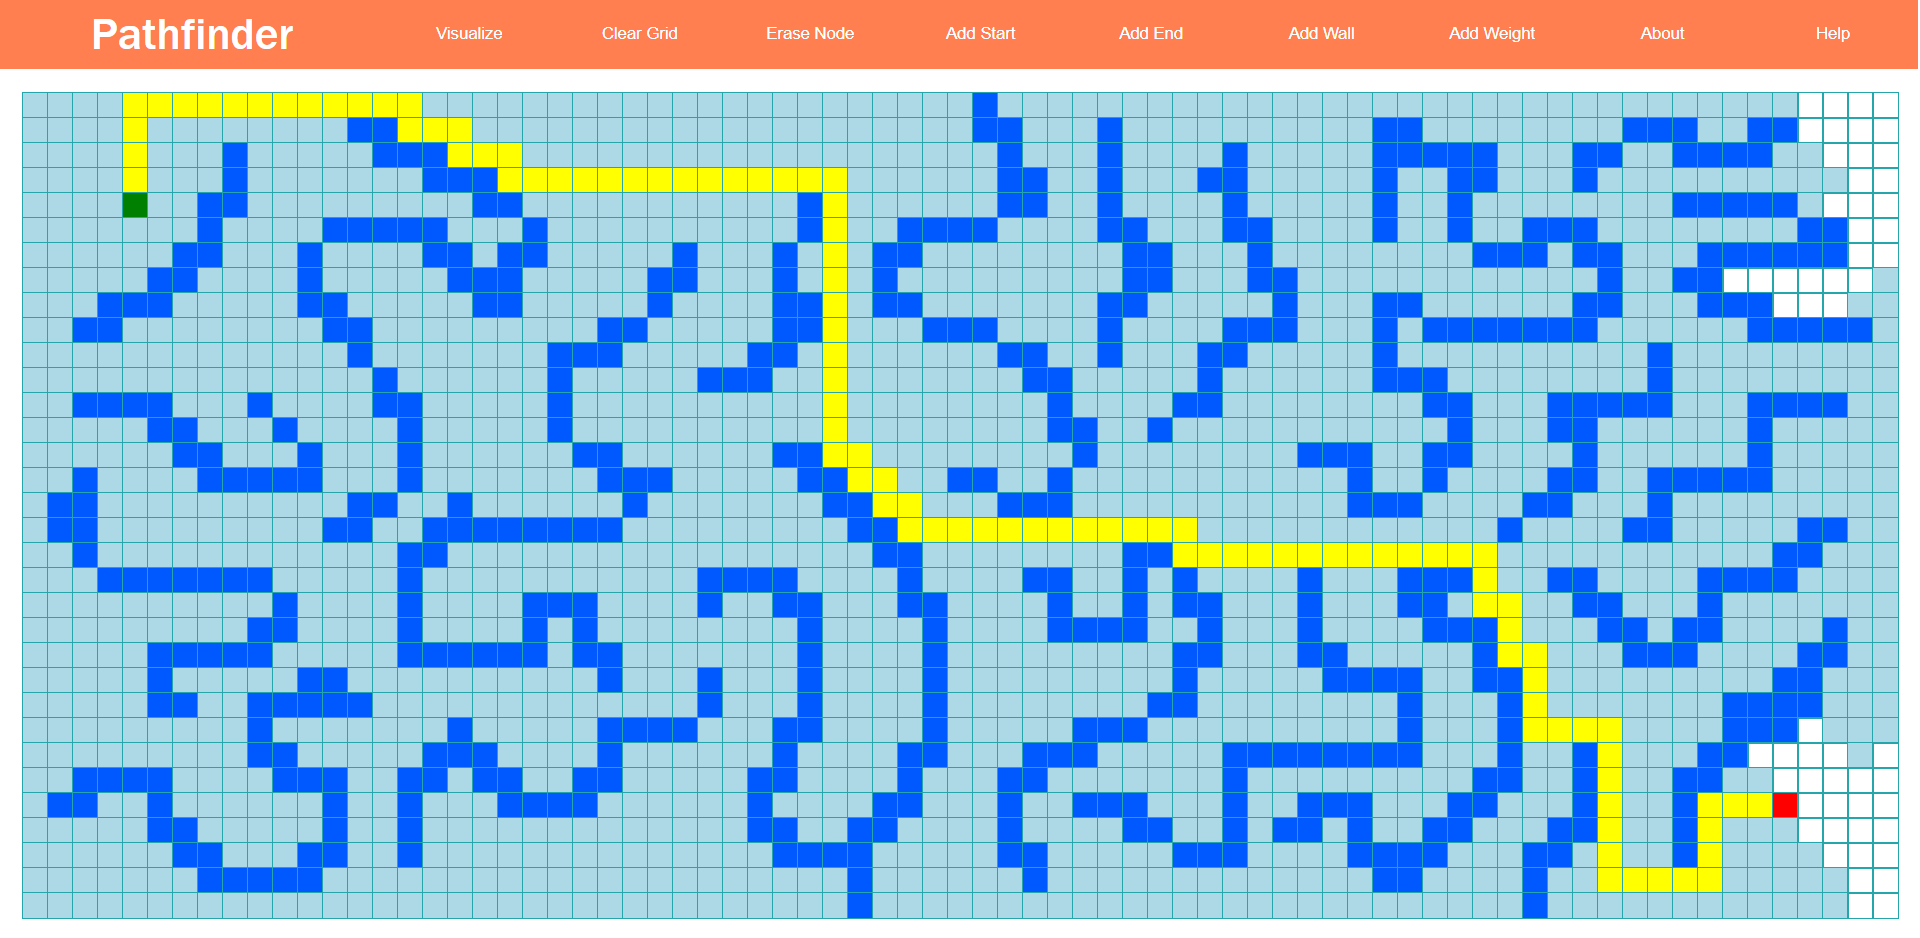
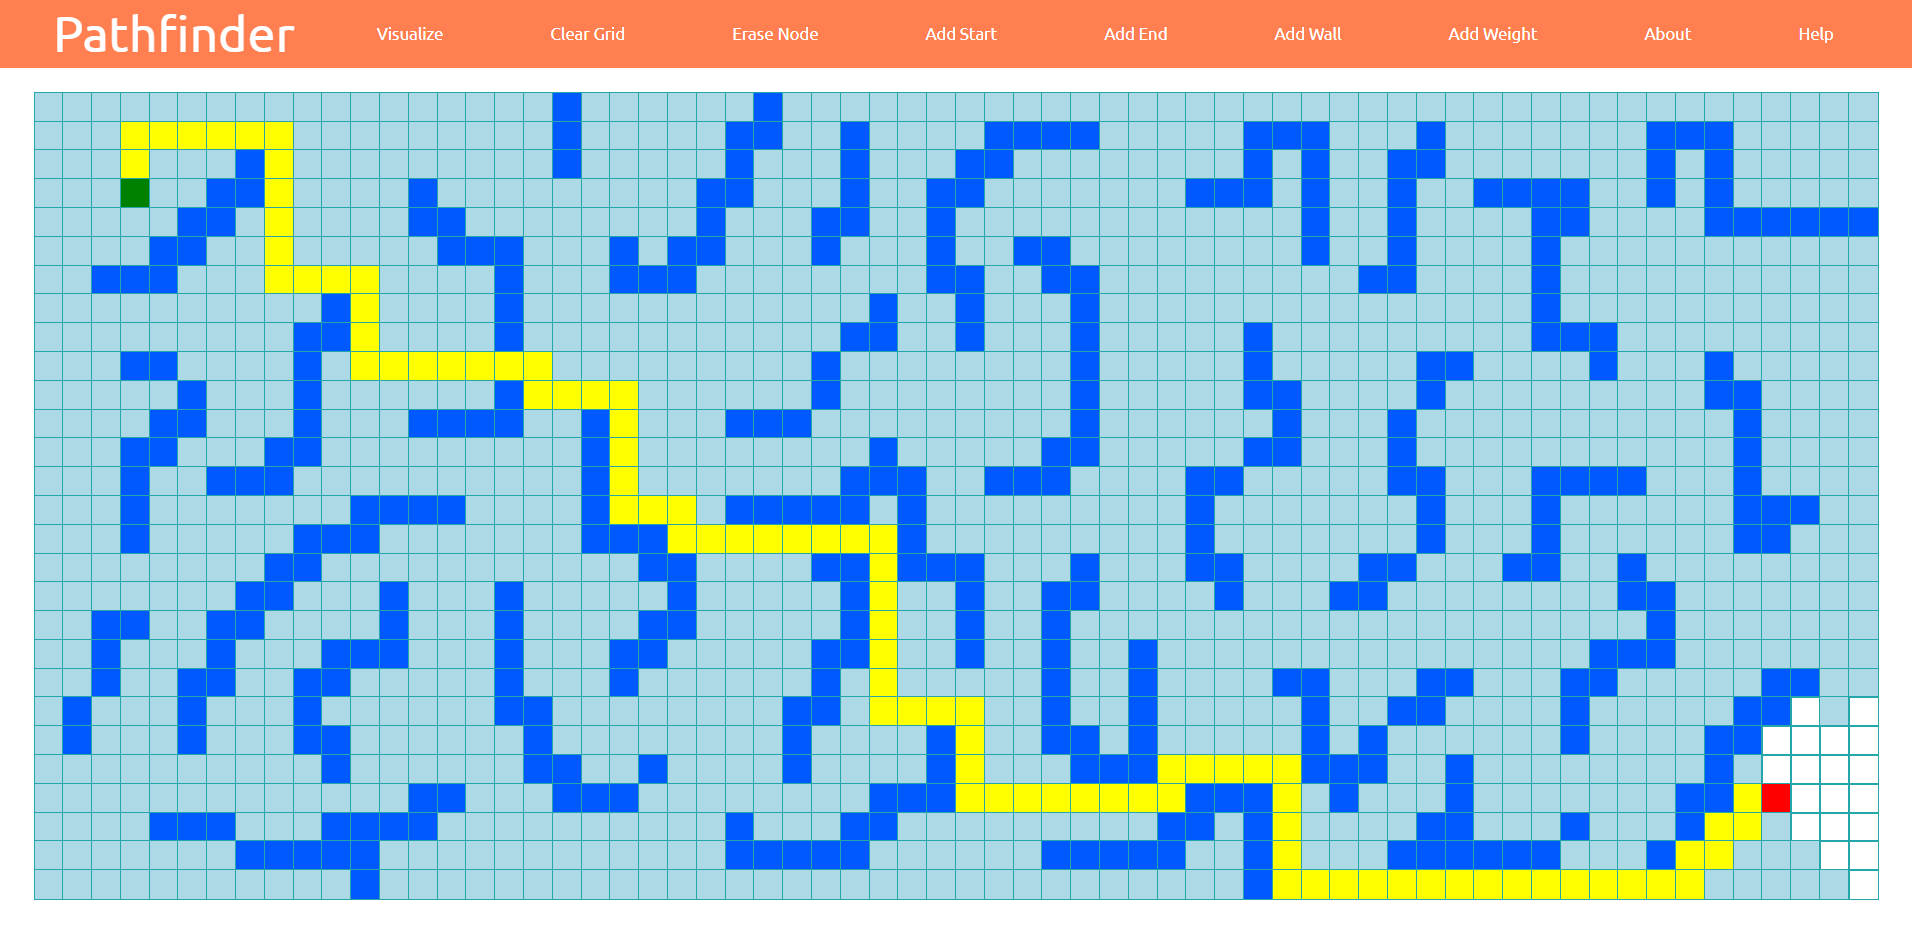
Changed pathfinder

diff --git a/Pathfinder/Pathfinder.css b/Pathfinder/Pathfinder.css
@@ -1,5 +1,10 @@
+* {
+    margin: 0;
+    padding: 0;
+}
+
 .page {
-    white-space: nowrap;
+    /* white-space: nowrap; */
     overflow-x: auto;
     overflow-y: auto;
     color: rgb(0, 0, 0);
@@ -14,47 +19,47 @@
 
 .node {
     outline: 1px solid rgb(37, 166, 170);
-    width: 20px;
-    height: 20px;
+    width: 1.5vw;
+    height: 1.5vw;
     display: inline-block;
 }
 
 .startnode {
     outline: 1px solid rgb(37, 166, 170);
-    width: 20px;
-    height: 20px;
+    width: 1.5vw;
+    height: 1.5vw;
     display: inline-block;
     background-color: green;
 }
 
 .endnode {
     outline: 1px solid rgb(37, 166, 170);
-    width: 20px;
-    height: 20px;
+    width: 1.5vw;
+    height: 1.5vw;
     display: inline-block;
     background-color: red;
 }
 
 .visitednode {
     outline: 1px solid rgb(37, 166, 170);
-    width: 20px;
-    height: 20px;
+    width: 1.5vw;
+    height: 1.5vw;
     display: inline-block;
     background-color: lightblue;
 }
 
 .pathnode {
     outline: 1px solid rgb(37, 166, 170);
-    width: 20px;
-    height: 20px;
+    width: 1.5vw;
+    height: 1.5vw;
     display: inline-block;
     background-color: yellow;
 }
 
 .wallnode {
     outline: 1px solid rgb(37, 166, 170);
-    width: 20px;
-    height: 20px;
+    width: 1.5vw;
+    height: 1.5vw;
     display: inline-block;
     background-color: rgb(0, 89, 255);
 }
@@ -62,74 +67,81 @@
 
 .weighttwonode {
     outline: 1px solid rgb(37, 166, 170);
-    width: 20px;
-    height: 20px;
+    width: 1.5vw;
+    height: 1.5vw;
     display: inline-block;
     background-color: rgb(215, 215, 215);
 }
 .weightthreenode {
     outline: 1px solid rgb(37, 166, 170);
-    width: 20px;
-    height: 20px;
+    width: 1.5vw;
+    height: 1.5vw;
     display: inline-block;
     background-color: rgb(200, 200, 200);
 }
 .weightfournode {
     outline: 1px solid rgb(37, 166, 170);
-    width: 20px;
-    height: 20px;
+    width: 1.5vw;
+    height: 1.5vw;
     display: inline-block;
     background-color: rgb(187, 187, 187);
 }
 .weightfivenode {
     outline: 1px solid rgb(37, 166, 170);
-    width: 20px;
-    height: 20px;
+    width: 1.5vw;
+    height: 1.5vw;
     display: inline-block;
     background-color: rgb(170, 170, 170);
 }
 .weightsixnode {
     outline: 1px solid rgb(37, 166, 170);
-    width: 20px;
-    height: 20px;
+    width: 1.5vw;
+    height: 1.5vw;
     display: inline-block;
     background-color: rgb(150, 150, 150);
 }
 .weightsevennode {
     outline: 1px solid rgb(37, 166, 170);
-    width: 20px;
-    height: 20px;
+    width: 1.5vw;
+    height: 1.5vw;
     display: inline-block;
     background-color: rgb(120, 120, 120);
 }
 .weighteightnode {
     outline: 1px solid rgb(37, 166, 170);
-    width: 20px;
-    height: 20px;
+    width: 1.5vw;
+    height: 1.5vw;
     display: inline-block;
     background-color: rgb(90, 90, 90);
 }
 .weightninenode {
     outline: 1px solid rgb(37, 166, 170);
-    width: 20px;
-    height: 20px;
+    width: 1.5vw;
+    height: 1.5vw;
     display: inline-block;
     background-color: rgb(50, 50, 50);
 }
 .weighttennode {
     outline: 1px solid rgb(37, 166, 170);
-    width: 20px;
-    height: 20px;
+    width: 1.5vw;
+    height: 1.5vw;
     display: inline-block;
     background-color: rgb(0, 0, 0);
 }
 
-.navbar {
+.navbar ul {
     position: fixed;
     top: 0;
     left: 0;
     width: 100%;
+    list-style: none;
+    display: flex;
+    background-color: coral;
+    align-items: center;
+    justify-content: space-evenly;
+    text-align: center;
 }
+
 
 .title {
     -webkit-text-size-adjust:none;
@@ -142,7 +154,7 @@
     color: white;
     padding: 7.5px;
     margin: 0;
-    float: left;
+    /* float: left; */
     font-size: 36px;
     font-style: bold;
     font-family: 'Franklin Gothic Medium', 'Arial Narrow', Arial, sans-serif;
@@ -150,12 +162,12 @@
 
 .button {
     background-color: coral;
-    /* border: 1px solid green; */
+    font-family: 'Ubuntu', sans-serif;
     border: none;
     color: white;
     padding: 20px;
     margin: 0;
-    float: left;
+    /* float: left; */
     cursor: pointer;
 }
 
@@ -167,11 +179,11 @@
     background-color: rgb(251, 94, 36);
 }
 
-.navbar:after {
-    content: "";
-    clear: both;
-    display: table;
+#pathfinder {
+    font-size: 40px;
+    padding: 0;
 }
+
 
 .weightdropdown {
     display: none;
@@ -180,7 +192,7 @@
     /* padding: 20px; */
     z-index: 1;
     position: fixed;
-    left: 70%;
+    left: 73.5%;
     top: 7%;
 }
 
@@ -285,6 +297,10 @@
     padding: 20px;
     width: 70%;
     border-radius: 10px;
+}
+
+.modal p {
+    width: 70vw;
 }
 
 #about-close {

diff --git a/Pathfinder/Pathfinder.html b/Pathfinder/Pathfinder.html
@@ -5,11 +5,24 @@
             Pathfinder
         </title>
         <link rel="stylesheet" href="Pathfinder.css">
-        
+        <link href="https://fonts.googleapis.com/css2?family=Ubuntu&display=swap" rel="stylesheet">
     </head>
     <body class = "page">
         <div class = "navbar">
-            <button class = "title" style = "width:20%">
+            <ul>
+                <li><button class = "button" id = "pathfinder">Pathfinder</button></li>
+                <li><button class = "button" id = "visualize">Visualize</button></li>
+                <li><button class = "button" id = "clear">Clear Grid</button></li>
+                <li><button class = "button" id = "erase">Erase Node</button></li>
+                <li><button class = "button" id = "select start node">Add Start</button></li>
+                <li><button class = "button" id = "select end node">Add End</button></li>
+                <li><button class = "button" id = "add wall node">Add Wall</button></li>
+                <li><button class = "button" id = "add weight node">Add Weight</button></li>
+                <li><button class = "button" id = "about">About</button></li>
+                <li><button class = "button" id = "help">Help</button></li>
+
+            </ul>
+            <!-- <button class = "title" style = "width:20%">
                 Pathfinder
             </button>
             <button class = "button" id = "visualize" style = "width:8.88%">
@@ -38,7 +51,7 @@
             </button>
             <button class = "button" id = "help" style = "width:8.88%">
                 Help
-            </button>
+            </button> -->
         </div>
         <div class = "weightdropdown" id = "weight dropdown">
             <button class = "weightDropButtonTwo" id = "weighttwo" style = "width:8.88%">
@@ -79,12 +92,11 @@
                     About
                 </h1>
                 <p>
-                    This is a project developed by Samuel Ko as a learning project for basic JavaScript, HTML, and CSS. The project is designed to highlight basic webpage design concepts, </br>
-                    simple animation, user interaction, and an understanding of pathfinding algorithms both algorithmically and visually. The project's major components were </br>
-                    developed over the course of a week in which the challenge was to add as much functionality as possible. The goal was to make a visualizer that could be a </br>
+                    This is a project developed by Samuel Ko as a learning project for basic JavaScript, HTML, and CSS. The project is designed to highlight basic webpage design concepts, 
+                    simple animation, user interaction, and an understanding of pathfinding algorithms both algorithmically and visually. The project's major components were 
+                    developed over the course of a week in which the challenge was to add as much functionality as possible. The goal was to make a visualizer that could be a 
                     potentially useful learning tool or something fun to play around with. 
                 </p>
-                
             </div>
         </div>
         <div class = "modal" id = "help-modal">

diff --git a/Pathfinder/Pathfinder.js b/Pathfinder/Pathfinder.js
@@ -4,8 +4,8 @@ let START_COL = null;
 let END_ROW = null;
 let END_COL = null;
 
-let GRID_WIDTH = 75;
-let GRID_HEIGHT = 33;
+let GRID_WIDTH = 64;
+let GRID_HEIGHT = 28;
 let grid = [];
 let visitedNodes = [];
 let pathNodes = [];
@@ -28,6 +28,8 @@ let mouseDown = 0;
 
 createGrid();
 drawGrid();
+
+console.log(document.documentElement.clientWidth);
 
 function createGrid() {
     for(let col = 0; col < GRID_WIDTH; col++) {
@@ -653,10 +655,8 @@ function nodeHoldListener(event, row, col) {
 }
 
 function dijkstra() {
-    //visitedNodes.push(grid[START_COL][START_ROW]);
     let unvisitedNodes = copyGridToList(grid);
     unvisitedNodes.sort((nodeA, nodeB) => nodeA.distance - nodeB.distance);
-    //grid[START_COL][START_ROW].isVisited = true;
     let pathFound = false;
     while(unvisitedNodes.length > 0 && unvisitedNodes[0].distance != Infinity) {
         const node = unvisitedNodes.shift();
